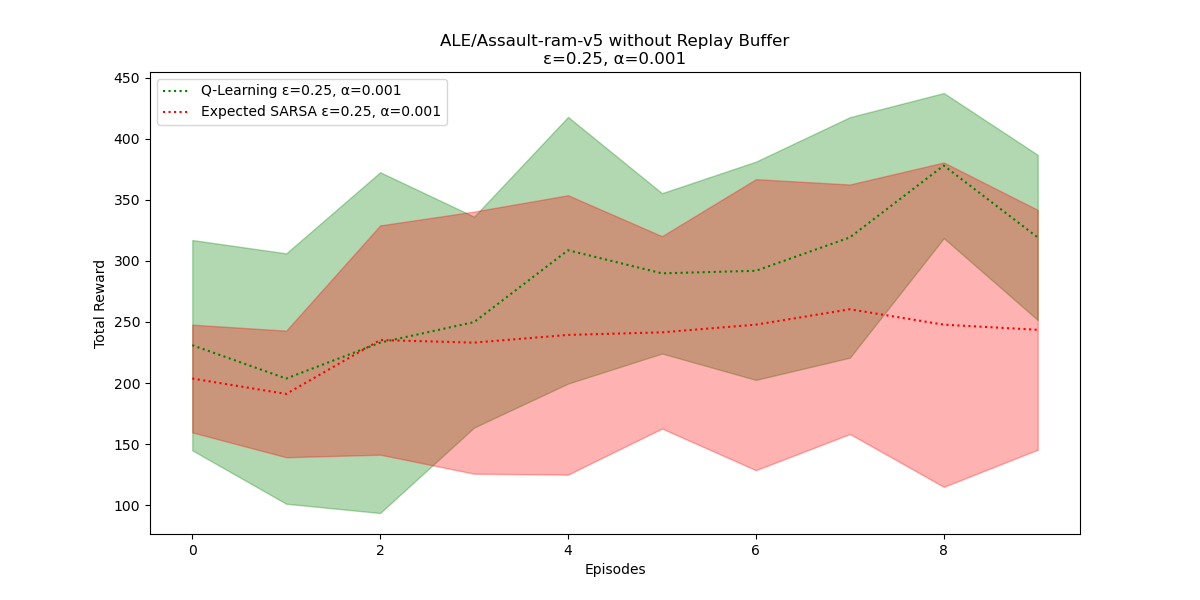
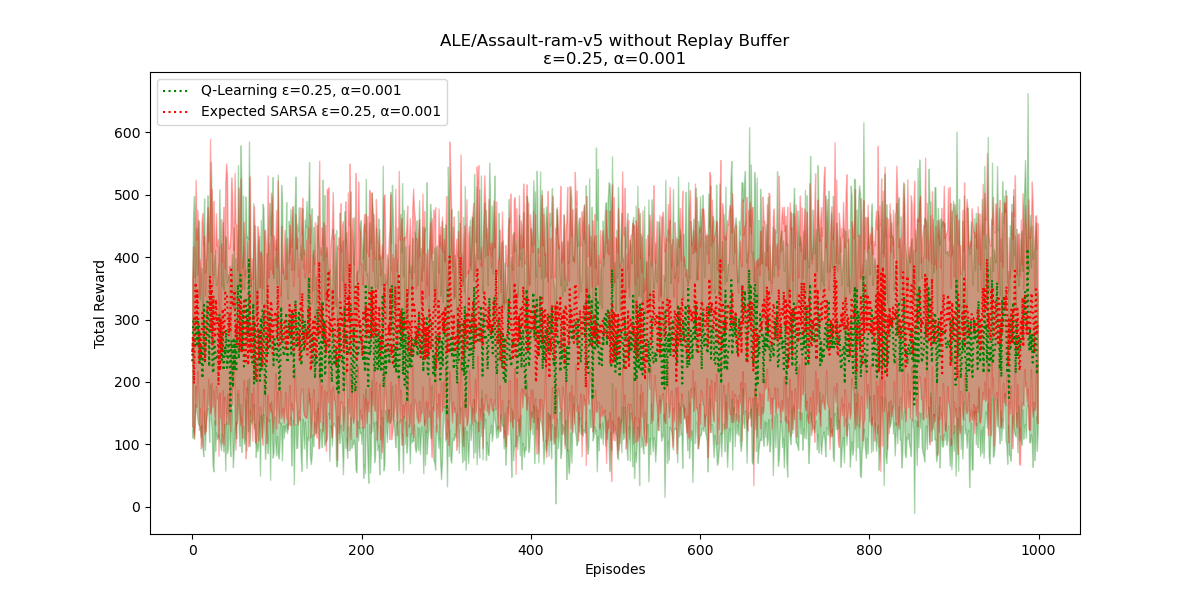
New graph

diff --git a/Code/a3.py b/Code/a3.py
@@ -21,7 +21,6 @@ print("\n\n\n==========================================================\n\n\n")
 
 ############################################################################################################
 
-
 class QNetwork(nn.Module):
     # Q-Network
     def __init__(self, state_dim, action_dim, hidden_dim=256, num_layers=2):
@@ -59,7 +58,6 @@ class QNetwork(nn.Module):
         x = torch.relu(self.layer2(x))
         x = self.layer3(x)
         return x
-
 
 ############################################################################################################
 
@@ -101,11 +99,11 @@ class ReplayBuffer:
         batch = random.sample(self.buffer, batch_size)
         state, action, reward, next_state, done = zip(*batch)
         return (
-            np.array(state),
-            np.array(action),
-            np.array(reward),
-            np.array(next_state),
-            np.array(done),
+        np.array(state, dtype=np.float32),
+        np.array(action),
+        np.array(reward, dtype=np.float32),
+        np.array(next_state, dtype=np.float32),
+        np.array(done, dtype=np.float32),
         )
 
     def __len__(self):
@@ -113,7 +111,6 @@ class ReplayBuffer:
 
 
 ############################################################################################################
-
 
 class ExpectedSarsaAgent:
     def __init__(
@@ -212,6 +209,41 @@ class ExpectedSarsaAgent:
         self.optimizer.zero_grad()  # reset gradients
         loss.backward()  # backpropagation
         self.optimizer.step()  # update weights
+    
+    def batch_update(self, s_batch, a_batch, r_batch, ns_batch, d_batch):
+        """
+        Performs a batch update using sampled experiences from the replay buffer.
+        """
+        # Convert batches to tensors
+        s_batch = torch.FloatTensor(s_batch).to(self.device)
+        a_batch = torch.tensor(a_batch).to(self.device)
+        r_batch = torch.tensor(r_batch).to(self.device)
+        ns_batch = torch.FloatTensor(ns_batch).to(self.device)
+        d_batch = torch.tensor(d_batch, dtype=torch.float32).to(self.device)
+
+        # Get Q-values for all states in the batch
+        q_values = self.q_network(s_batch)
+
+        # Select the Q-values for the taken actions
+        q_value = q_values.gather(1, a_batch.unsqueeze(1))  # (batch_size, 1)
+
+        # Get the max Q-values for the next states in the batch
+        next_q_values = self.q_network(ns_batch).detach()
+        max_next_q = next_q_values.max(1)[0]  # (batch_size, )
+
+        # Calculate the expected Q-value for each experience in the batch
+        expected_q = (1 - self.epsilon) * max_next_q + self.epsilon * next_q_values.mean(dim=1)
+
+        # Compute the target for each experience in the batch
+        target = r_batch + (1 - d_batch) * self.gamma * expected_q
+
+        # Compute the loss (MSE loss)
+        loss = torch.nn.functional.mse_loss(q_value.squeeze(), target)
+
+        # Optimize the model
+        self.optimizer.zero_grad()
+        loss.backward()
+        self.optimizer.step()
 
 
 ############################################################################################################
@@ -310,9 +342,39 @@ class QLearningAgent:
         loss.backward()  # compute the gradients
         self.optimizer.step()  # update the weights
 
+    def batch_update(self, s_batch, a_batch, r_batch, ns_batch, d_batch):
+        """
+        Perform a batch update using sampled experiences from the replay buffer.
+        """
+        # Convert batches to tensors
+        s_batch = torch.FloatTensor(s_batch).to(self.device)
+        a_batch = torch.tensor(a_batch).to(self.device)
+        r_batch = torch.tensor(r_batch).to(self.device)
+        ns_batch = torch.FloatTensor(ns_batch).to(self.device)
+        d_batch = torch.tensor(d_batch, dtype=torch.float32).to(self.device)
+
+        # Get current Q-values for all states in the batch
+        q_values = self.q_network(s_batch)
+
+        # Select the Q-values for the taken actions
+        q_value = q_values.gather(1, a_batch.unsqueeze(1))  # (batch_size, 1)
+
+        # Get the max Q-value for the next states in the batch
+        next_q_values = self.q_network(ns_batch).detach()
+        max_next_q = next_q_values.max(1)[0]  # (batch_size, )
+
+        # Compute the target (TD target) for each experience
+        target = r_batch + (1 - d_batch) * self.gamma * max_next_q
+
+        # Compute the loss
+        loss = torch.nn.functional.mse_loss(q_value.squeeze(), target)
+
+        # Optimize the model
+        self.optimizer.zero_grad()
+        loss.backward()
+        self.optimizer.step()
 
 ############################################################################################################
-
 
 # Common training function for QLearning and ExpectedSarsa Agents
 def train(
@@ -362,8 +424,12 @@ def train(
             while not done:
                 if isinstance(state, tuple):
                     state = state[0]
+                if env_name == "ALE/Assault-ram-v5":
+                    state = state / 255.0
                 action = agent.select_action(state)
                 next_state, reward, terminated, truncated, _ = env.step(action)
+                if env_name == "ALE/Assault-ram-v5":
+                    next_state = next_state / 255.0
                 done = terminated or truncated
                 total_reward += reward
 
@@ -387,7 +453,6 @@ def train(
         all_rewards.append(rewards)
     env.close()
     return np.mean(all_rewards, axis=0), np.std(all_rewards, axis=0)
-
 
 ############################################################################################################
 
@@ -526,7 +591,7 @@ if __name__ == "__main__":
         0.0001,
     ]  # https://edstem.org/us/courses/71533/discussion/6304331
     epsilons = [0.25, 0.125, 0.0625]
-    environments = ["Acrobot-v1", "ALE/Assault-ram-v5"]
+    environments = ["ALE/Assault-ram-v5"]
     agent_classes = [ExpectedSarsaAgent, QLearningAgent]
     use_replay_options = [False, True]
     run_experiment(
